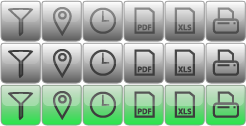
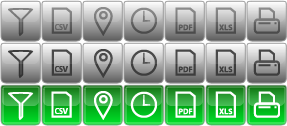
xp_ext: export csv button

diff --git a/core/extensions/ki_export/css/panel.css b/core/extensions/ki_export/css/panel.css
@@ -14,10 +14,10 @@
 #xp_panel .l .w .c,#xp_panel .r .w .c  			{background-position: 0 98px;}
 
 #xp_panel .l            						{ margin-left: -100%; width: 133px;}
-#xp_panel .r 									{ width: 138px; margin-left: -138px;}
+#xp_panel .r 									{ width: 183px; margin-left: -183px;}
 #xp_panel .r .r 								{ background-position: -27px 0; margin-left: -4px;}
 #xp_panel .w            						{ width: 100%; }
-#xp_panel .w .c         						{ margin: 0 138px 0 133px; }
+#xp_panel .w .c         						{ margin: 0 183px 0 133px; }
 #xp_panel .w .c .w .c 							{ margin: 0 8px 0 15px; background-position: 0 49px;}
 #xp_panel .w .c .l 								{ background-position: -4px 0; width: 15px;}
 #xp_panel .w .c .r 								{ background-position: -19px 0; width: 8px; margin-left: -10px;}
@@ -36,7 +36,7 @@
 #xp_panel #xp_ext_select_filter             { top:3px; }
 #xp_panel #xp_ext_select_filter:hover       { background-position: 0 -42px; }
 #xp_panel #xp_ext_select_filter:active      { background-position: 0 -84px; }
-#xp_panel #xp_ext_select_filter.pressed    { background-position: 0 -84px; }
+#xp_panel #xp_ext_select_filter.pressed     { background-position: 0 -84px; }
 
 #xp_panel #xp_ext_select_location
 {
@@ -45,7 +45,7 @@
 }
 #xp_panel #xp_ext_select_location:hover       { background-position: 204px -42px; }
 #xp_panel #xp_ext_select_location:active      { background-position: 204px -84px; }
-#xp_panel #xp_ext_select_location.pressed    { background-position: 204px -84px; }
+#xp_panel #xp_ext_select_location.pressed     { background-position: 204px -84px; }
 
 #xp_panel #xp_ext_select_timeformat
 {
@@ -54,7 +54,7 @@
 }
 #xp_panel #xp_ext_select_timeformat:hover       { background-position: 163px -42px; }
 #xp_panel #xp_ext_select_timeformat:active      { background-position: 163px -84px; }
-#xp_panel #xp_ext_select_timeformat.pressed    { background-position: 163px -84px; }
+#xp_panel #xp_ext_select_timeformat.pressed     { background-position: 163px -84px; }
 
 #xp_panel #xp_ext_export_pdf
 {
@@ -62,7 +62,7 @@
 	background-position: 122px 0;
 }
 #xp_panel #xp_ext_export_pdf:hover       { background-position: 122px -42px; }
-#xp_panel #xp_ext_export_pdf.pressed    { background-position: 122px -84px; }
+#xp_panel #xp_ext_export_pdf.pressed     { background-position: 122px -84px; }
 
 #xp_panel #xp_ext_export_xls
 {
@@ -70,15 +70,27 @@
 	background-position: 82px 0;
 }
 #xp_panel #xp_ext_export_xls:hover       { background-position: 82px -42px; }
-#xp_panel #xp_ext_export_xls.pressed    { background-position: 82px -84px; }
+#xp_panel #xp_ext_export_xls.pressed     { background-position: 82px -84px; }
+
+
+
+#xp_panel #xp_ext_export_csv
+{
+	left:88px; top:-81px;
+	background-position: -41px 0;
+}
+#xp_panel #xp_ext_export_csv:hover       { background-position: -41px -42px; }
+#xp_panel #xp_ext_export_csv.pressed     { background-position: -41px -84px; }
+
+
 
 #xp_panel #xp_ext_print
 {
-	left:88px; top:-81px;
+	left:132px; top:-123px;
 	background-position: 41px 0;
 }
 #xp_panel #xp_ext_print:hover       { background-position: 41px -42px; }
-#xp_panel #xp_ext_print.pressed    { background-position: 41px -84px; }
+#xp_panel #xp_ext_print.pressed     { background-position: 41px -84px; }
 
 
 

diff --git a/core/extensions/ki_export/js/xp_func.js b/core/extensions/ki_export/js/xp_func.js
@@ -52,6 +52,9 @@ function xp_ext_onload() {
 	$('#xp_ext_export_xls').click(function(){
         floaterShow('../extensions/ki_export/floaters.php','XLS',0,0,600,570);
     });
+	$('#xp_ext_export_csv').click(function(){
+        floaterShow('../extensions/ki_export/floaters.php','CSV',0,0,600,570);
+    });
 
 	$('#xp_ext_print').click(function(){
         floaterShow('../extensions/ki_export/floaters.php','print',0,0,600,570);

diff --git a/core/extensions/ki_export/floaters.php b/core/extensions/ki_export/floaters.php
@@ -42,6 +42,12 @@ switch ($axAction) {
 	    $tpl->display("export_XLS.tpl"); 
     break;
 
+    case "CSV":  
+	    // $tpl->assign('comment_types', $comment_types);
+	    $tpl->assign('exportCSV', 'exportCSV');
+	    $tpl->display("export_CSV.tpl"); 
+    break;
+
     case "print":  
 	    // $tpl->assign('comment_types', $comment_types);
 	    $tpl->assign('print', 'print');

diff --git a/core/includes/version.php b/core/includes/version.php
@@ -1,7 +1,7 @@
 <?php
 $kga['version']  = "0.8.2";
 // $kga['revision'] is the sourceforge SVN revision.
-$kga['revision'] = '0125';
+$kga['revision'] = '0126';
 // when Kimai moved from syncom to sourceforge we had r866 ...
 $kga['revision'] = (int)$kga['revision'] += 866;
 $kga['status']   = "BETA"; // leave blank if stable ...
